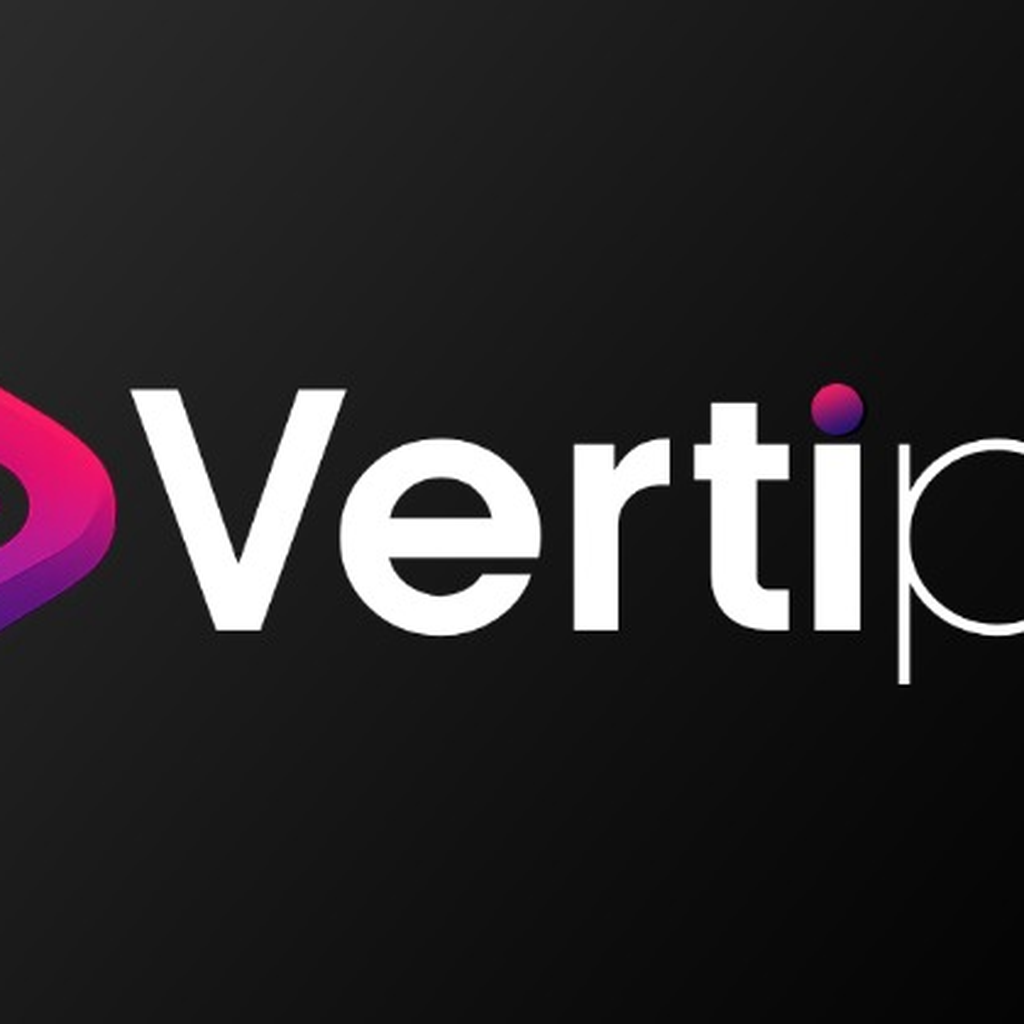
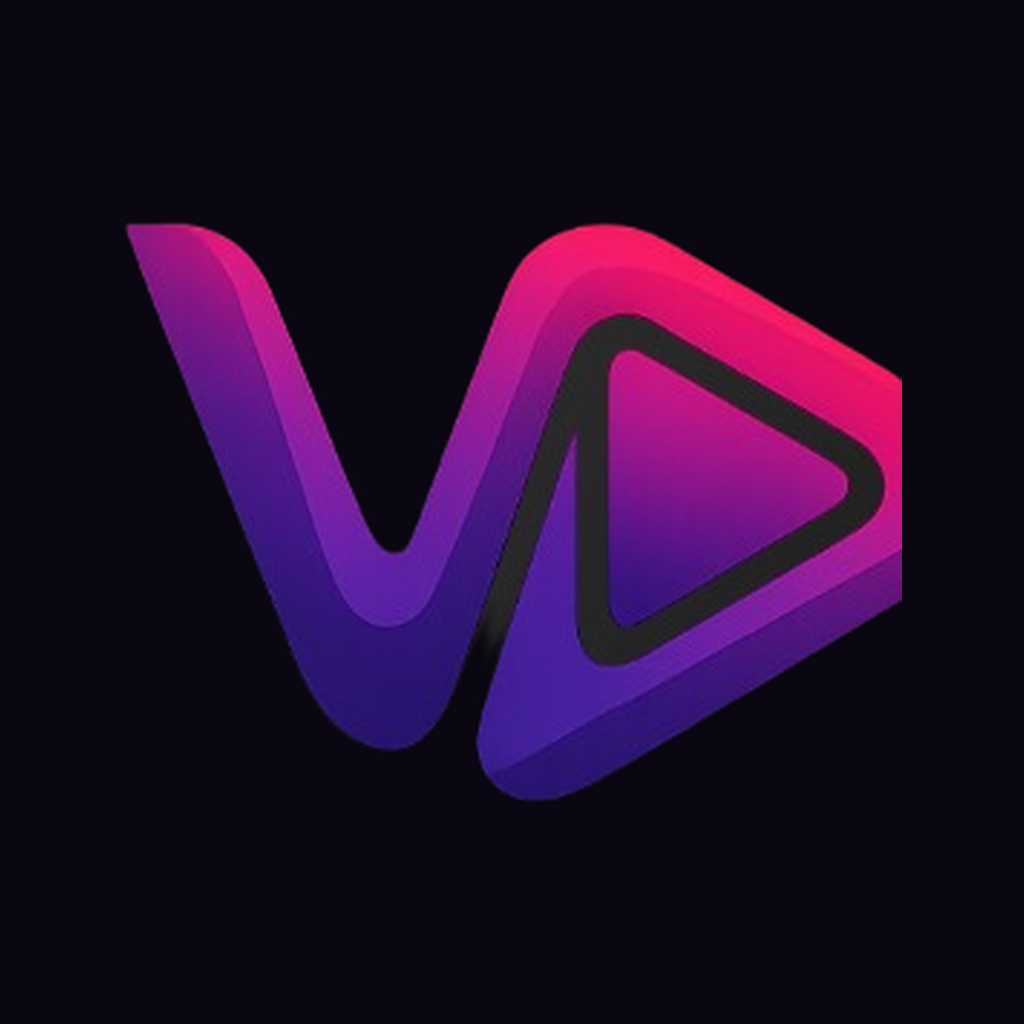
fix(mobile): ícone só com símbolo V + corrige 4 fotos quebradas no shop
- Regenera ícones Android (5 densidades) + iOS AppIcon usando logo-v.png
  em vez da logo completa (texto "Vertiplay" estava sendo cortado na home).
- Bump Android pra versionCode 2 / versionName 1.0.1.
- Substitui 4 IDs Unsplash 404 em lib/shop.ts por imagens válidas
  (camisa branca, look amarelo, cafeteira, vestido elegante).

diff --git a/lib/shop.ts b/lib/shop.ts
@@ -282,8 +282,8 @@ export const PRODUCTS: Product[] = [
     name: "Camisa Bordada Coleção Lua",
     description:
       "Camisa em linho off-white com bordado floral à mão na gola e punhos. Caimento solto.",
-    imageUrl: img("photo-1551163943-3f7053a3b8b3"),
-    gallery: [img("photo-1551163943-3f7053a3b8b3")],
+    imageUrl: img("photo-1490481651871-ab68de25d43d"),
+    gallery: [img("photo-1490481651871-ab68de25d43d")],
     priceBRL: 24900,
     oldPriceBRL: 29900,
     category: "Linho",
@@ -298,8 +298,8 @@ export const PRODUCTS: Product[] = [
     name: "Saia Longa Amarelo Maresia",
     description:
       "Saia longa godê em linho amarelo solar, cintura alta, fenda lateral discreta.",
-    imageUrl: img("photo-1583496661160-fb5886a13d63"),
-    gallery: [img("photo-1583496661160-fb5886a13d63")],
+    imageUrl: img("photo-1515886657613-9f3515b0c78f"),
+    gallery: [img("photo-1515886657613-9f3515b0c78f")],
     priceBRL: 28900,
     category: "Linho",
     stock: 14,
@@ -402,8 +402,8 @@ export const PRODUCTS: Product[] = [
     name: "Cafeteira Italiana Cobre 6 Xícaras",
     description:
       "Cafeteira Moka clássica em alumínio com acabamento cobre, 6 xícaras. Indução compatível.",
-    imageUrl: img("photo-1559305616-e7a8a6fb7f24"),
-    gallery: [img("photo-1559305616-e7a8a6fb7f24")],
+    imageUrl: img("photo-1517701604599-bb29b565090c"),
+    gallery: [img("photo-1517701604599-bb29b565090c")],
     priceBRL: 11990,
     category: "Cafeteira",
     stock: 80,
@@ -576,8 +576,8 @@ export const PRODUCTS: Product[] = [
     name: "Vestido de Noiva Vermelho",
     description:
       "O vestido vermelho da Marina no altar — escândalo no casamento. Tafetá italiano, cauda removível.",
-    imageUrl: img("photo-1525257831700-3534c34a9919"),
-    gallery: [img("photo-1525257831700-3534c34a9919")],
+    imageUrl: img("photo-1566174053879-31528523f8ae"),
+    gallery: [img("photo-1566174053879-31528523f8ae")],
     priceBRL: 359000,
     category: "Vestido",
     stock: 2,
@@ -593,8 +593,8 @@ export const PRODUCTS: Product[] = [
     name: "Cafeteira Prime Bronze",
     description:
       "A cafeteira da cozinha do chefão. Italiana, bombe expresso, design vintage.",
-    imageUrl: img("photo-1559305616-e7a8a6fb7f24"),
-    gallery: [img("photo-1559305616-e7a8a6fb7f24")],
+    imageUrl: img("photo-1517701604599-bb29b565090c"),
+    gallery: [img("photo-1517701604599-bb29b565090c")],
     priceBRL: 189000,
     oldPriceBRL: 249000,
     category: "Cafeteira",
